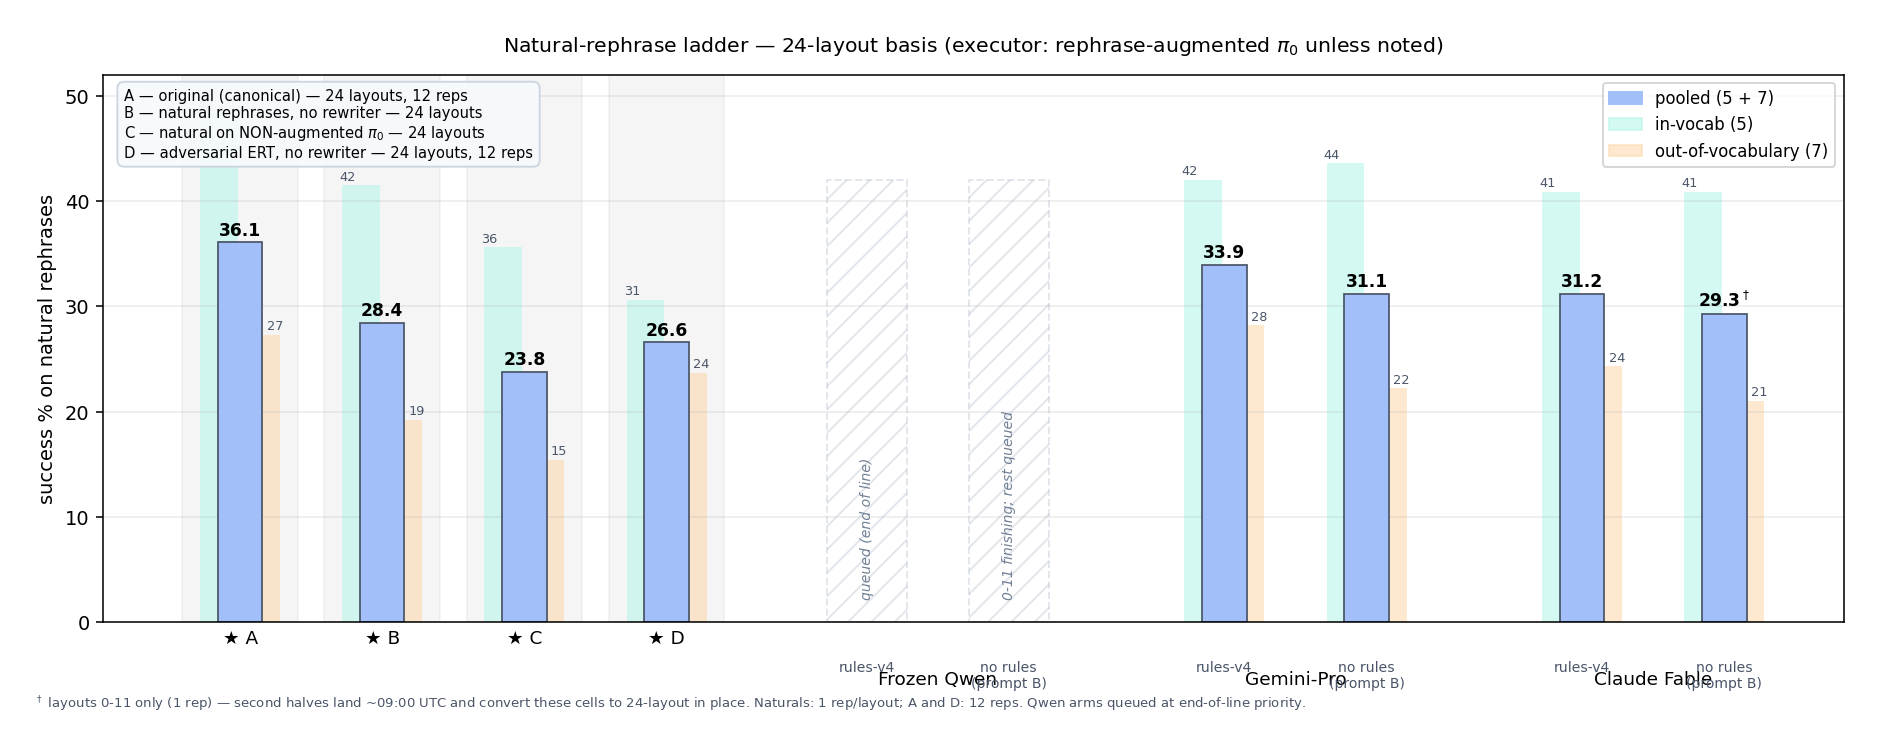
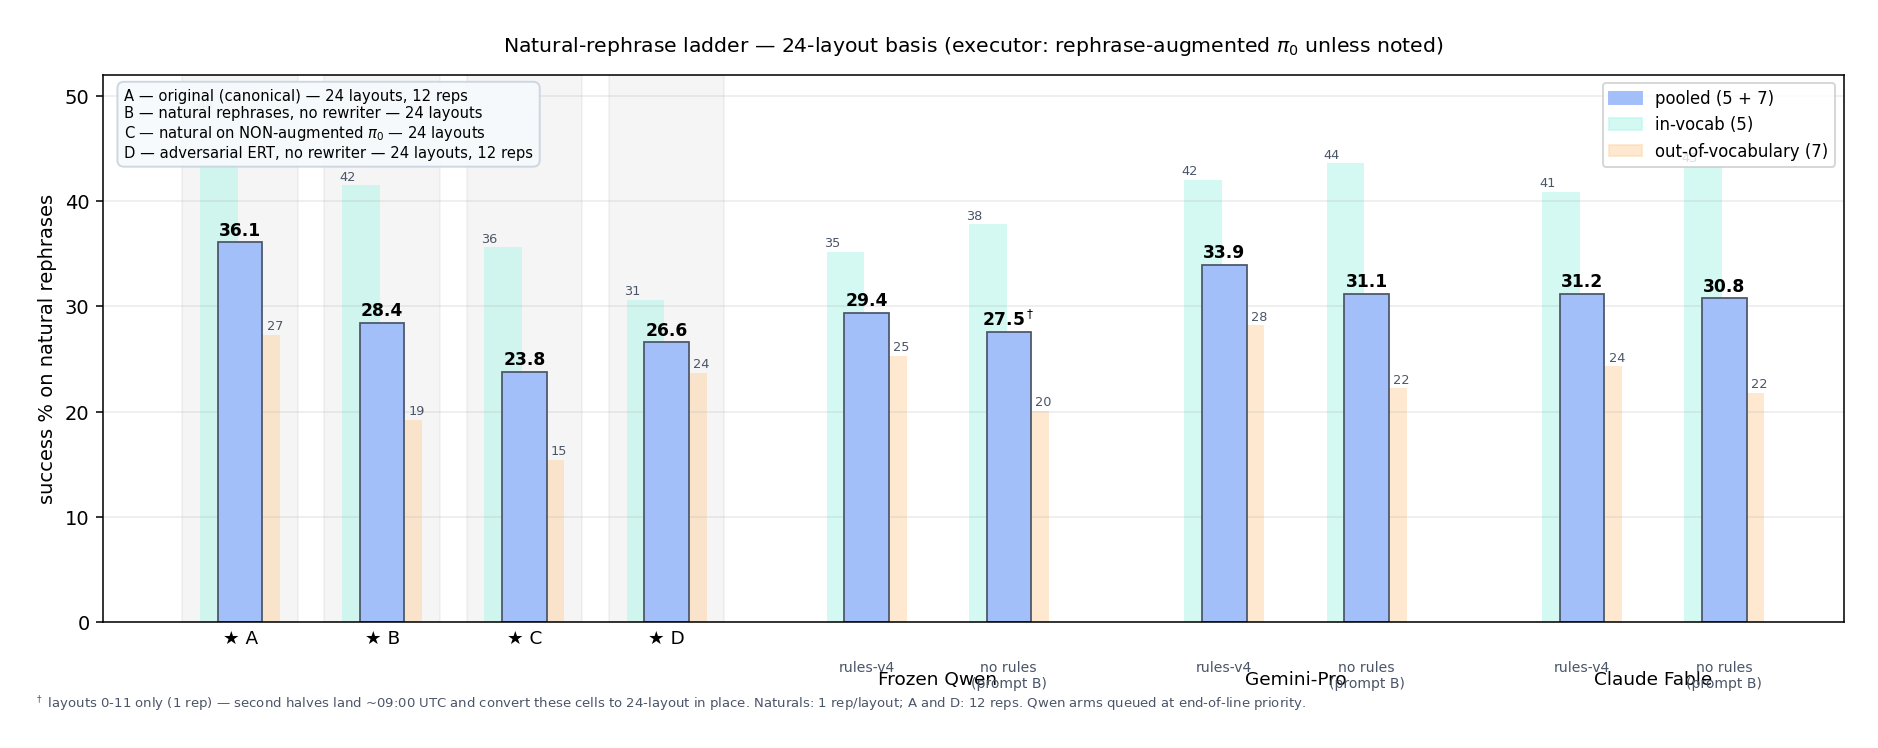
natural ladder: claude promptB uniform-24 (30.75), qwen column filled (rules 29.41 uniform-24; promptB 27.52 0-11 pending half)

diff --git a/scripts/make_natural_ladder.py b/scripts/make_natural_ladder.py
@@ -19,13 +19,12 @@ REFS = [("A", "original (canonical) — 24 layouts, 12 reps", (36.08, 48.3, 27.3
 ROLES = ["rules-v4", "no rules (prompt B)"]
 # cell = (pooled, IV, OOV, is_partial_0_11) or None (pending)
 MODELS = {
-    "Frozen Qwen":  [None, None],
+    "Frozen Qwen":  [(29.41, 35.2, 25.3, False), (27.52, 37.8, 20.1, True)],
     "Gemini-Pro":   [(33.92, 42.0, 28.2, False), (31.15, 43.6, 22.2, False)],
-    "Claude Fable": [(31.18, 40.9, 24.3, False), (29.30, 40.9, 21.0, True)],
+    "Claude Fable": [(31.18, 40.9, 24.3, False), (30.75, 43.3, 21.8, False)],
 }
 PENDING = {
-    ("Frozen Qwen", 0): "queued (end of line)",
-    ("Frozen Qwen", 1): "0-11 finishing; rest queued",
+    ("Frozen Qwen", 1): "lay 12-23 landing ~07:30",
 }
 
 
